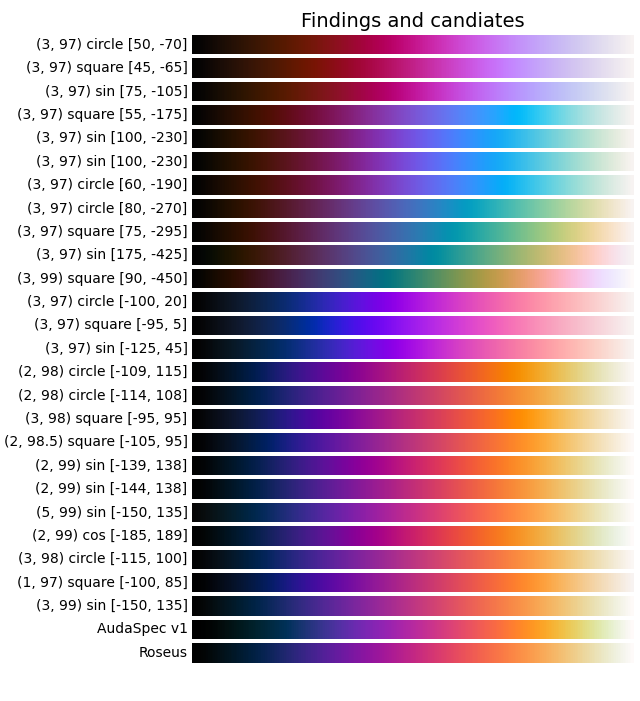
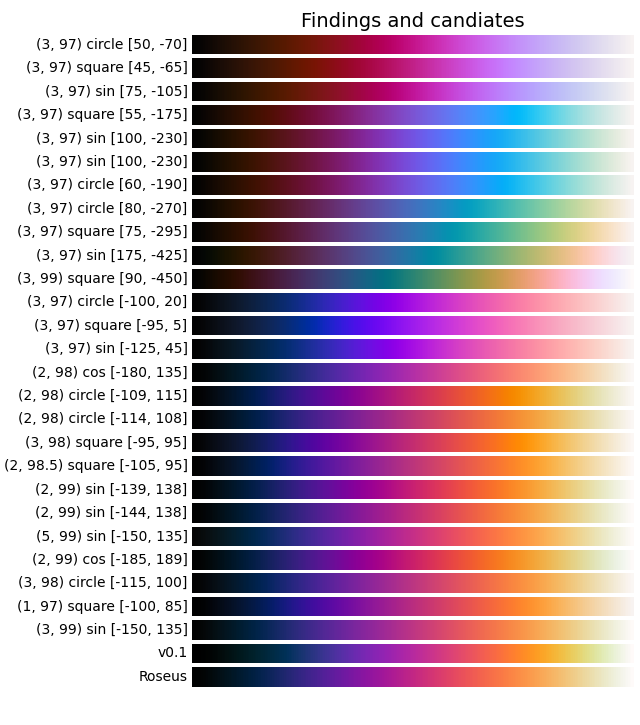
Update colorbar findings

Changed region(s): [[0.0, 0.0, 0.9688, 0.9586]]

diff --git a/plot_bars.py b/plot_bars.py
@@ -41,6 +41,7 @@ CMAP_SETTINGS = [
     [[-125, 45], 'sin', (3, 97)],
 
     # blue, magenta, orange, yellow
+    [[-180, 135], 'cos', (2, 98)],
     [[-109, 115], 'circle', (2, 98)],  # optimal
     [[-114, 108], 'circle', (2, 98)],
     [[-95, 95], 'square', (3, 98)],
@@ -65,7 +66,7 @@ for h, C, L in CMAP_SETTINGS:
     cm = mpl.colors.ListedColormap(cm_data, name=f'{L} {C} {h}')
     cmap_list.append(cm)
 
-# cmap_list.append(mpl.colors.ListedColormap(audaspec_data, name='AudaSpec v1'))
+# cmap_list.append(mpl.colors.ListedColormap(audaspec_data, name='v0.1'))
 cmap_list.append(mpl.colors.ListedColormap(gen_colormap()[0], name='Roseus'))
 
 # Create figure and adjust figure height to number of colormaps

diff --git a/README.md b/README.md
@@ -50,7 +50,7 @@ Previous version: [code](https://github.com/dofuuz/roseus/tree/v0.1.0) | [viscm]
 
 ## Findings and candiates
 
-These are some colormaps made during designing Roseus. They are all perceptually uniform and has almost full range of lightness.
+These are some colormaps made during designing Roseus. They are all perceptually uniform(except v0.1) and has almost full range of lightness.
 
 You can generate them using `roseus.py`.
 
